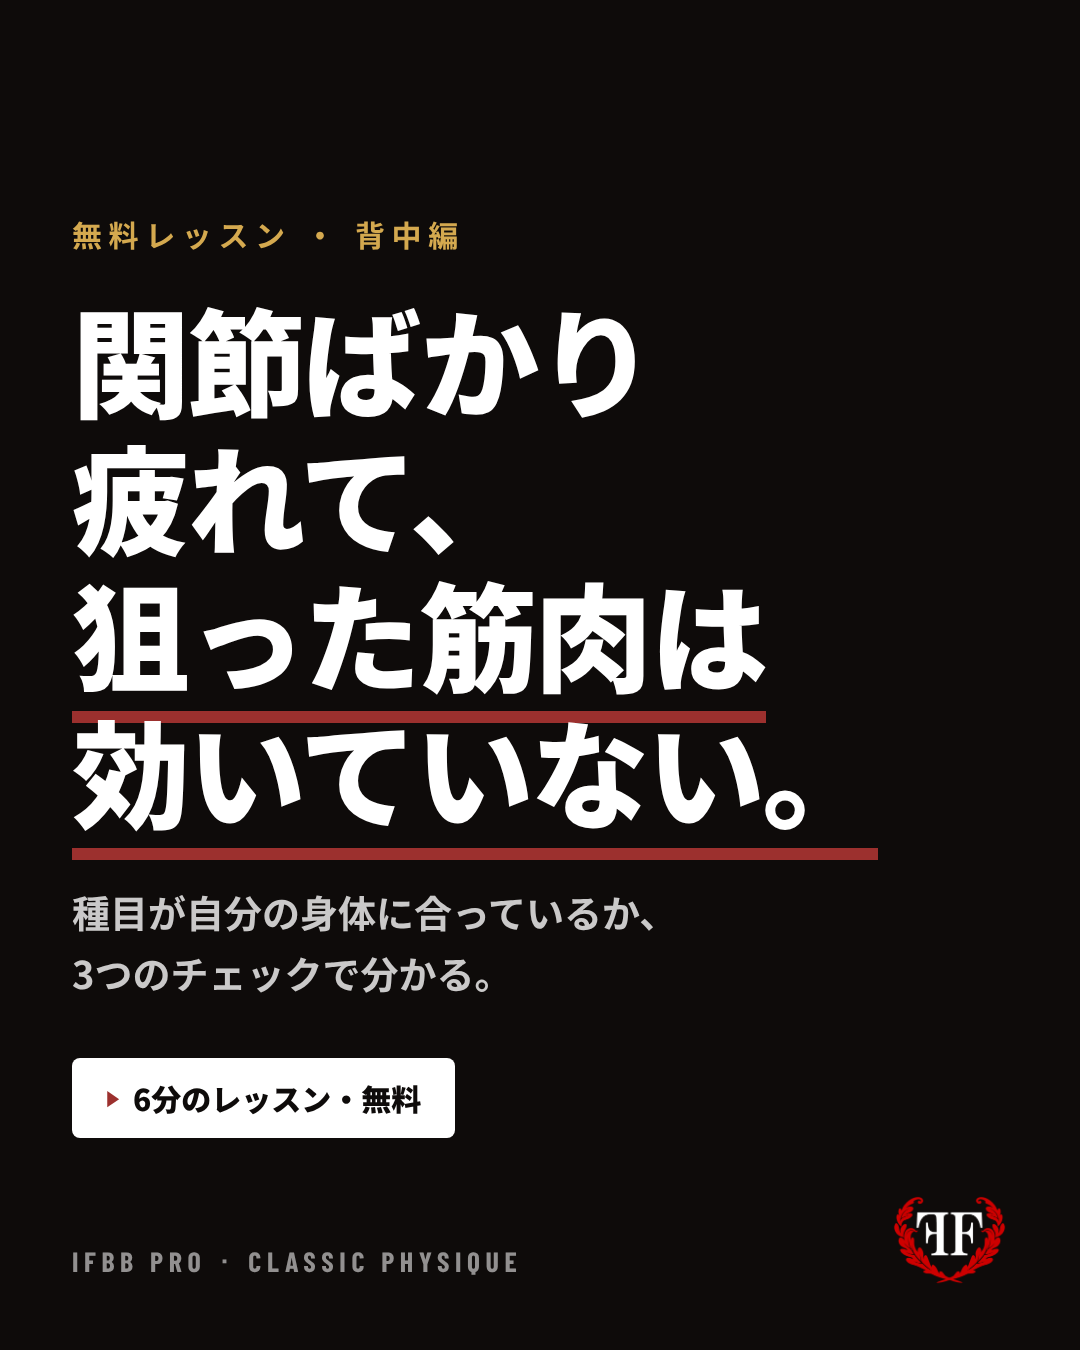
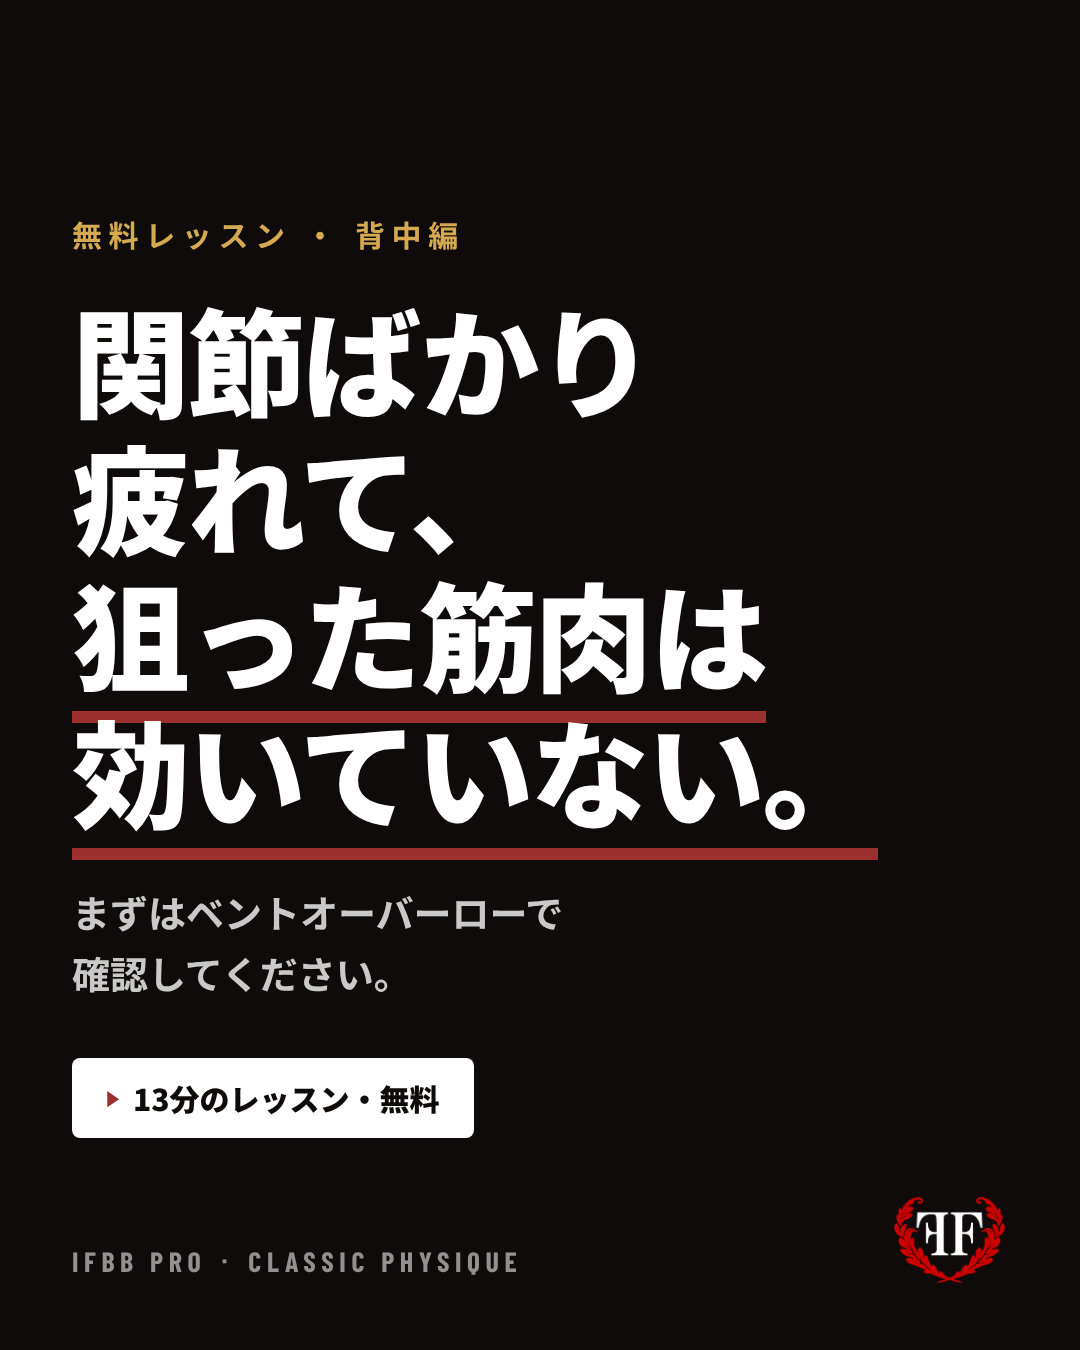
Lesson page: match the 13-minute bent-over row video (#34)
* Add UPPER DAY YouTube thumbnails (part 1, 2) and the series thumbnail template

Claude-Session: https://claude.ai/code/session_01HRty6kL8VRnpLHHHzSF3iS

* UPPER DAY thumbnails: reframe to keep the face visible and hide the burned-in caption

Claude-Session: https://claude.ai/code/session_01HRty6kL8VRnpLHHHzSF3iS

* UPPER DAY thumbnails v2: loud yellow/red creator style, distinct from the community look

Claude-Session: https://claude.ai/code/session_01HRty6kL8VRnpLHHHzSF3iS

* UPPER DAY thumbnails v3: competition roar photo plus gym face chip

Claude-Session: https://claude.ai/code/session_01HRty6kL8VRnpLHHHzSF3iS

* UPPER DAY thumbnails: soften hook to Felipe's voice

Claude-Session: https://claude.ai/code/session_01HRty6kL8VRnpLHHHzSF3iS

* UPPER DAY thumbnails: keep the hook line on one row

Claude-Session: https://claude.ai/code/session_01HRty6kL8VRnpLHHHzSF3iS

* UPPER DAY thumbnails: hook label on one line

Claude-Session: https://claude.ai/code/session_01HRty6kL8VRnpLHHHzSF3iS

* UPPER DAY thumbnails on the brand guide: FF black base, white type, laurel red as the single accent, gym press photo; add visual identity PDF

Claude-Session: https://claude.ai/code/session_01HRty6kL8VRnpLHHHzSF3iS

* UPPER DAY thumbnail: three promise-led headline variants on the brand template

Claude-Session: https://claude.ai/code/session_01HRty6kL8VRnpLHHHzSF3iS

* Add post-live story images (thanks + next live 11/23) and story template
[…]

Changed region(s): [[0.0611, 0.6533, 0.6111, 0.7467], [0.1222, 0.7778, 0.4583, 0.84]]

diff --git a/lesson.html b/lesson.html
@@ -4,9 +4,9 @@
 <meta charset="UTF-8" />
 <meta name="viewport" content="width=device-width, initial-scale=1.0" />
 <title>無料レッスン｜関節ばかり疲れて、狙った筋肉は効いていない。｜IFBB PRO Felipe Fukai</title>
-<meta name="description" content="種目が自分の身体に合っているか、3つのチェックで分かる。IFBB PRO Felipe Fukai の UNIÃO から、1本を無料公開。6分。" />
+<meta name="description" content="まずは、ベントオーバーローが正しくできているか見てください。IFBB PRO Felipe Fukai が8つのチェックで13分で解説。無料。" />
 <meta property="og:title" content="関節ばかり疲れて、狙った筋肉は効いていない。｜無料レッスン" />
-<meta property="og:description" content="種目が自分の身体に合っているか、3つのチェックで分かる。IFBB PRO Felipe Fukai。6分・無料。" />
+<meta property="og:description" content="まずは、ベントオーバーローが正しくできているか見てください。IFBB PRO Felipe Fukai。13分・無料。" />
 <meta property="og:type" content="website" />
 <meta property="og:image" content="https://ff-uniao.netlify.app/assets/ads/lesson-joints/og.png" />
 <meta property="og:url" content="https://ff-uniao.netlify.app/lesson" />
@@ -104,22 +104,23 @@ fbq('track', 'ViewContent', {content_name: 'lesson-joints'});
   <main id="locked">
     <p class="eyebrow">無料レッスン</p>
     <h1 class="h1">関節ばかり疲れて、<br /><u>狙った筋肉は</u><br /><u>効いていない。</u></h1>
-    <p class="lead">IFBB PRO Felipe Fukai のトレーニング教育コミュニティ <strong>UNIÃO</strong> から、1本を無料公開。この回は、<strong>種目が自分の身体に合っているか</strong>を見分ける方法です。</p>
+    <p class="lead">まずは、<strong>ベントオーバーローが正しくできているか</strong>見てください。IFBB PRO Felipe Fukai が、負荷が関節や腰に逃げる瞬間を8つのチェックで解説します。UNIÃO から、1本を無料公開。</p>
 
     <div class="vid" id="vid-locked">
       <img src="/assets/go-poster.jpg" alt="" width="1280" height="720" />
       <div class="vid-lock">
         <i><svg width="24" height="24" viewBox="0 0 24 24" fill="none" stroke="#fff" stroke-width="2.2" stroke-linecap="round" stroke-linejoin="round"><rect x="4" y="11" width="16" height="10" rx="2"/><path d="M8 11V7a4 4 0 0 1 8 0v4"/></svg></i>
-        <b>無料レッスン ・ 6分</b>
+        <b>無料レッスン ・ 13分</b>
         <small>下のフォームにメールを入力すると視聴できます</small>
       </div>
     </div>
 
     <p class="in-h">IN THIS LESSON</p>
     <ul class="in">
-      <li>狙った筋肉に効いているかが分かる、3つの簡単なチェック</li>
-      <li>自分にない可動域を無理に使うと、痛みとケガにつながる理由</li>
-      <li>フリーウエイトより、固定された種目のほうが成長する場面</li>
+      <li>動作中、上体の角度が変わっていないか。上体を安定させる工夫</li>
+      <li>狙った背中ではなく、腕や腰で代償していないか。自分で見抜く方法</li>
+      <li>グリップ幅と引く軌道は、自分の骨格に合っているか。合う軌道の考え方</li>
+      <li>ヒップヒンジが保てない人へ（2:30〜）。全8チェック</li>
     </ul>
 
     <section class="fcard" id="register">
@@ -142,12 +143,12 @@ fbq('track', 'ViewContent', {content_name: 'lesson-joints'});
   <!-- ===== UNLOCKED ===== -->
   <main id="unlocked" hidden>
     <p class="eyebrow done">LESSON UNLOCKED</p>
-    <h1 class="h1">種目は、<br />身体に合っているか</h1>
+    <h1 class="h1">ベントオーバーローは、<br />正しくできているか</h1>
     <div class="vid" id="vid-open"></div>
 
     <div class="next">
       <p class="in-h">THE NEXT QUESTION</p>
-      <p>種目が身体に合っている。次の問いは、1回のトレーニングの中でどう並べれば、弱点に一番良いセットを使えるか。</p>
+      <p>ベントオーバーローが正しくできている。次の問いは、他の種目でも同じことが起きていないか。そして、それをどう組み合わせれば弱点が変わるか。</p>
       <p>UNIÃO はそれに答えて、プログラム全体を組み立て、栄養と回復につなげます。</p>
     </div>
 
@@ -169,7 +170,7 @@ fbq('track', 'ViewContent', {content_name: 'lesson-joints'});
 
 <script>
   (function () {
-    var VIDEO_ID = 'vNz1KK12BYE'; // TODO: replace with the 6-minute lesson video when uploaded
+    var VIDEO_ID = 'vNz1KK12BYE'; // ベントオーバーロー 徹底解説（13分）
     var locked = document.getElementById('locked');
     var unlocked = document.getElementById('unlocked');
     var open = document.getElementById('vid-open');
@@ -181,7 +182,7 @@ fbq('track', 'ViewContent', {content_name: 'lesson-joints'});
       if (!open.querySelector('iframe')) {
         var f = document.createElement('iframe');
         f.src = 'https://www.youtube-nocookie.com/embed/' + VIDEO_ID + '?rel=0&modestbranding=1&playsinline=1' + (autoplay ? '&autoplay=1' : '');
-        f.title = '無料レッスン';
+        f.title = 'ベントオーバーロー 徹底解説（13分）';
         f.allow = 'accelerometer; autoplay; clipboard-write; encrypted-media; gyroscope; picture-in-picture; web-share';
         f.allowFullscreen = true;
         open.appendChild(f);

diff --git a/assets/ads/lesson-joints/cover-template.html b/assets/ads/lesson-joints/cover-template.html
@@ -28,8 +28,8 @@ body.og .logo{height:70px;right:60px;bottom:40px} body.og .pro{display:none}
 <div class="wrap">
   <p class="label">無料レッスン ・ 背中編</p>
   <p class="h">関節ばかり<br>疲れて、<br><u>狙った筋肉は</u><br><u>効いていない。</u></p>
-  <p class="p">種目が自分の身体に合っているか、<br>3つのチェックで分かる。</p>
-  <p class="btn"><i>▶</i> 6分のレッスン・無料</p>
+  <p class="p">まずはベントオーバーローで<br>確認してください。</p>
+  <p class="btn"><i>▶</i> 13分のレッスン・無料</p>
 </div>
 <p class="pro">IFBB PRO ・ CLASSIC PHYSIQUE</p>
 <img class="logo" src="logo.png" alt="">
